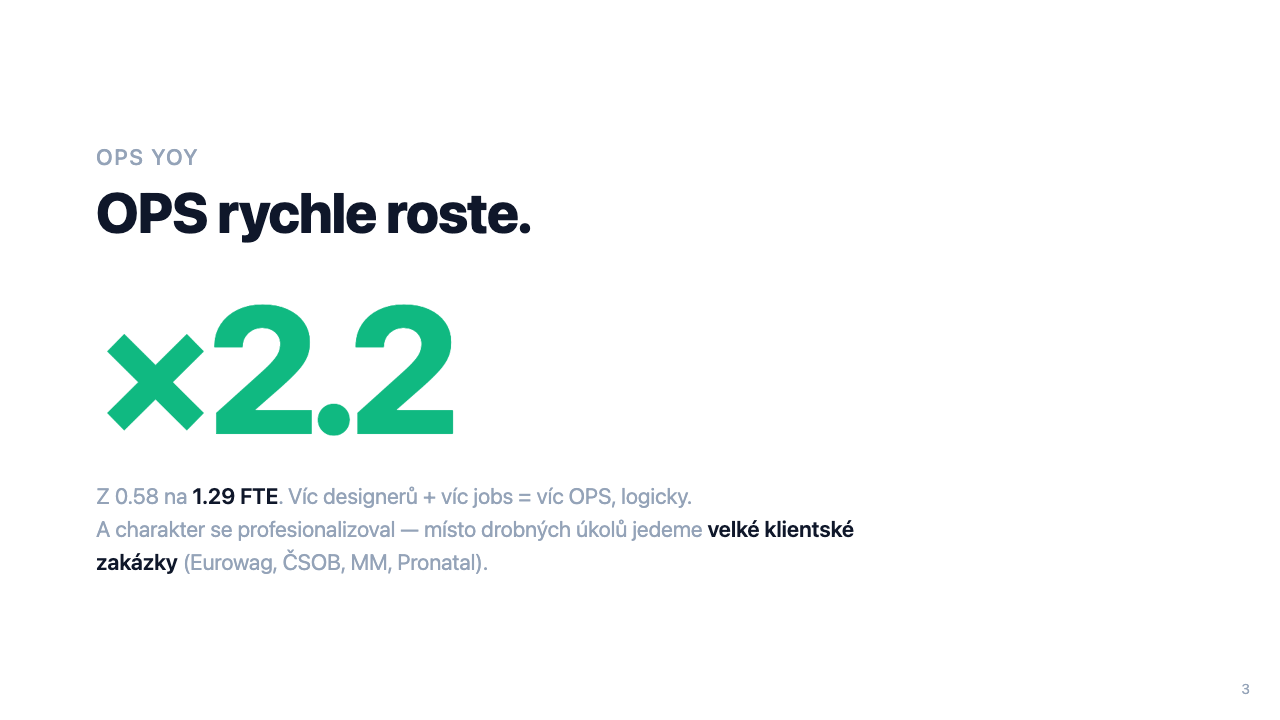
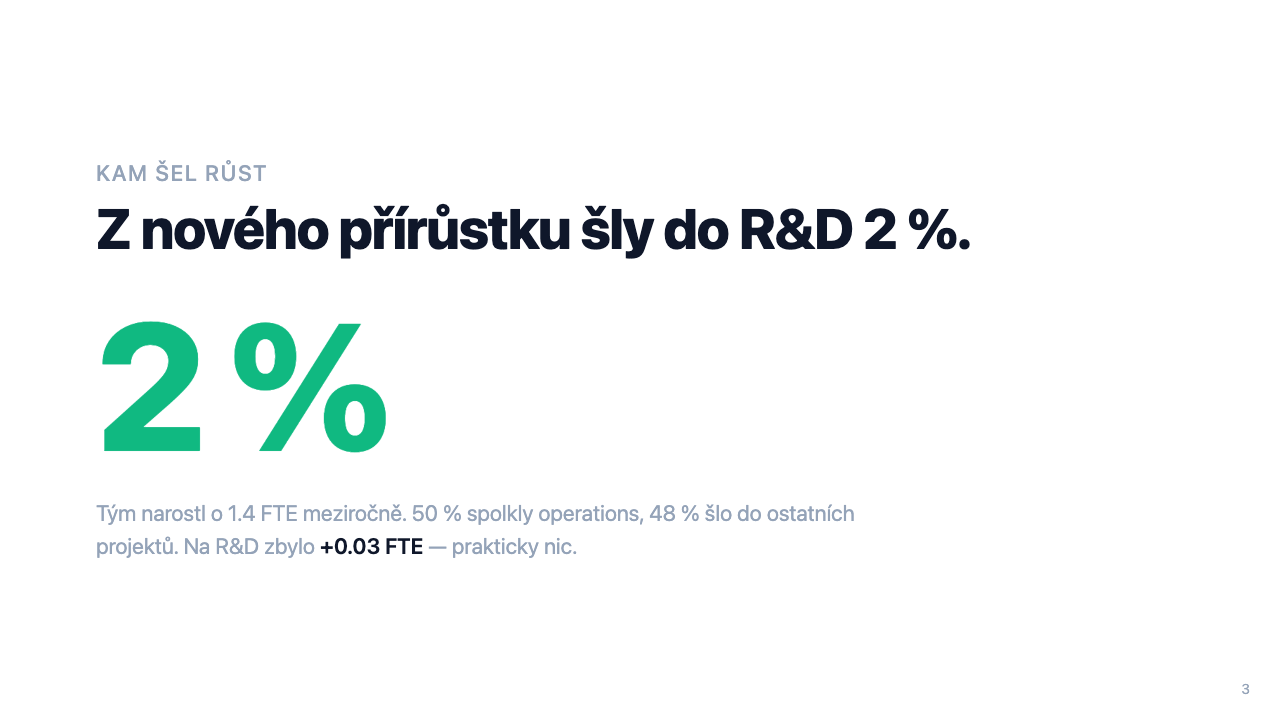
docs: refine Q1 2026 review slides 3-5 as a connected arc
- Slide 3: reframe as "where did the growth go" — only 2% to R&D
- Slide 4: reframe as the resulting state, bridging from slide 3
- Slide 5: lead with the consequence ("can't innovate") and use the
  10-year tempo as supporting evidence

Changed region(s): [[0.0625, 0.1833, 0.75, 0.3667], [0.0625, 0.6722, 0.6875, 0.7944], [0.0625, 0.3972, 0.375, 0.6417]]

diff --git a/public/q1-2026-review-2f/index.html b/public/q1-2026-review-2f/index.html
@@ -822,11 +822,11 @@ ul.questions li strong {
 .note strong { color: var(--ink) !important; font-weight: 600; background: transparent; }
 " lang="C" data-marpit-pagination="3" style="--paginate:true;--theme:default;--style:@import url('https://fonts.googleapis.com/css2?family=IBM+Plex+Mono:ital,wght@0,400;0,500;0,600;0,700;1,500&amp;family=IBM+Plex+Sans:wght@300;400;500;600;700&amp;display=swap')
 ;" data-marpit-pagination-total="7" data-size="16:9">
-<div class="eyebrow">02 / OPS YoY</div>
-<h1 id="ops-rychle-roste">OPS <strong>rychle roste</strong>.</h1>
-<p><span class="big hl">×2.2</span></p>
+<div class="eyebrow">02 / Kam šel růst</div>
+<h1 id="z-nov%C3%A9ho-p%C5%99%C3%ADr%C5%AFstku-%C5%A1ly-do-rd-2">Z nového přírůstku šly do R&amp;D <strong>2 %</strong>.</h1>
+<p><span class="big hl">2 %</span></p>
 <div class="note">
-Z 0.58 na <strong>1.29 FTE</strong>. Víc designerů + víc jobs = víc OPS, logicky. A charakter se profesionalizoval — místo drobných úkolů jedeme <strong>velké klientské zakázky</strong> (Eurowag, ČSOB, MM, Pronatal).
+Tým narostl o 1.4 FTE meziročně. 50 % spolkly operations, 48 % šlo do ostatních projektů. Na R&D zbylo <strong>+0.03 FTE</strong> — prakticky nic.
 </div>
 </section>
 </foreignObject></svg><svg data-marpit-svg="" viewBox="0 0 1280 720"><foreignObject width="1280" height="720"><section id="4" data-paginate="true" data-theme="default" data-style="@import url('https://fonts.googleapis.com/css2?family=IBM+Plex+Mono:ital,wght@0,400;0,500;0,600;0,700;1,500&amp;family=IBM+Plex+Sans:wght@300;400;500;600;700&amp;display=swap');
@@ -1097,12 +1097,11 @@ ul.questions li strong {
 .note strong { color: var(--ink) !important; font-weight: 600; background: transparent; }
 " lang="C" data-marpit-pagination="4" style="--paginate:true;--theme:default;--style:@import url('https://fonts.googleapis.com/css2?family=IBM+Plex+Mono:ital,wght@0,400;0,500;0,600;0,700;1,500&amp;family=IBM+Plex+Sans:wght@300;400;500;600;700&amp;display=swap')
 ;" data-marpit-pagination-total="7" data-size="16:9">
-<div class="eyebrow">03 / R&D dnes</div>
-<h1 id="na-rd-n%C3%A1m-zb%C3%BDv%C3%A1-m%C3%A1lo">Na R&amp;D nám zbývá <strong>málo</strong>.</h1>
+<div class="eyebrow">03 / Stav R&D</div>
+<h1 id="v%C3%BDsledek-rd-dr%C5%BE%C3%AD-jen-16--kapacity">Výsledek: R&amp;D drží jen <strong>16 %</strong> kapacity.</h1>
 <p><span class="big hl">16 %</span></p>
 <div class="note">
-Z historického 90 : 10 jsme se posunuli na <strong>72 : 28</strong>. Posun správným směrem.<br />
-Ale cíl je <strong>minimálně 25 %, ideálně 35 %</strong>. Tam jsme stále daleko.
+Z historického 90 : 10 jsme se posunuli na <strong>72 : 28</strong> — pokrok. Ale cíl je <strong>minimum 25 %, ideál 35 %</strong>. Tam jsme stále daleko.
 </div>
 </section>
 </foreignObject></svg><svg data-marpit-svg="" viewBox="0 0 1280 720"><foreignObject width="1280" height="720"><section id="5" data-paginate="true" data-theme="default" data-style="@import url('https://fonts.googleapis.com/css2?family=IBM+Plex+Mono:ital,wght@0,400;0,500;0,600;0,700;1,500&amp;family=IBM+Plex+Sans:wght@300;400;500;600;700&amp;display=swap');
@@ -1373,11 +1372,11 @@ ul.questions li strong {
 .note strong { color: var(--ink) !important; font-weight: 600; background: transparent; }
 " lang="C" data-marpit-pagination="5" style="--paginate:true;--theme:default;--style:@import url('https://fonts.googleapis.com/css2?family=IBM+Plex+Mono:ital,wght@0,400;0,500;0,600;0,700;1,500&amp;family=IBM+Plex+Sans:wght@300;400;500;600;700&amp;display=swap')
 ;" data-marpit-pagination-total="7" data-size="16:9">
-<div class="eyebrow">04 / Tempo k cíli</div>
-<h1 id="tempo-je-p%C5%99%C3%ADli%C5%A1-pomal%C3%A9">Tempo je <strong>příliš pomalé</strong>.</h1>
+<div class="eyebrow">04 / Důsledek</div>
+<h1 id="bez-investice-do-rd-nezvl%C3%A1dneme-inovovat">Bez investice do R&amp;D <strong>nezvládneme inovovat</strong>.</h1>
 <p><span class="big hl">~10 let</span></p>
 <div class="note">
-Při současných deltách R&D dorůstá, ale jen pomalu — z 16 % se asymptoticky blíží stropu kolem <strong>26 %</strong>. To znamená: cíl <strong>25 % až za ~10 let</strong> (39 kvartálů), cíl <strong>35 % bez aktivního zásahu nedosažitelný</strong>. Tempo nás vede k minimu, ale neudrží nás u ideálu.
+Současné tempo nás dovede k 25 % cíli za zhruba <strong>10 let</strong>, k 35 % nikdy. Bez prostoru pro R&D — a tedy pro nástroje a automatizace — bude každý nový OPS klient zhoršovat poměr. <strong>Operace porostou, kapacita pro inovace ne.</strong>
 </div>
 </section>
 </foreignObject></svg><svg data-marpit-svg="" viewBox="0 0 1280 720"><foreignObject width="1280" height="720"><section id="6" data-paginate="true" data-theme="default" data-style="@import url('https://fonts.googleapis.com/css2?family=IBM+Plex+Mono:ital,wght@0,400;0,500;0,600;0,700;1,500&amp;family=IBM+Plex+Sans:wght@300;400;500;600;700&amp;display=swap');

diff --git a/public/q1-2026-review/index.html b/public/q1-2026-review/index.html
@@ -1025,12 +1025,11 @@ svg { display: block; margin: 16px 0; }
   font-weight: 300;
 }
 ;" data-marpit-pagination-total="7" data-size="16:9">
-<div class="label">OPS YoY</div>
-<h1 id="ops-rychle-roste">OPS <strong>rychle roste</strong>.</h1>
-<div class="big ops">×2.2</div>
+<div class="label">Kam šel růst</div>
+<h1 id="z-nov%C3%A9ho-p%C5%99%C3%ADr%C5%AFstku-%C5%A1ly-do-rd-2">Z nového přírůstku šly do R&amp;D <strong>2 %</strong>.</h1>
+<div class="big ops">2 %</div>
 <div class="note">
-Z 0.58 na <strong>1.29 FTE</strong>. Víc designerů + víc jobs = víc OPS, logicky.<br />
-A charakter se profesionalizoval — místo drobných úkolů jedeme <strong>velké klientské zakázky</strong> (Eurowag, ČSOB, MM, Pronatal).
+Tým narostl o 1.4 FTE meziročně. 50 % spolkly operations, 48 % šlo do ostatních projektů. Na R&D zbylo <strong>+0.03 FTE</strong> — prakticky nic.
 </div>
 </section>
 </foreignObject></svg><svg data-marpit-svg="" viewBox="0 0 1280 720"><foreignObject width="1280" height="720"><section id="4" data-paginate="true" data-theme="default" data-style=":root {
@@ -1368,12 +1367,12 @@ svg { display: block; margin: 16px 0; }
   font-weight: 300;
 }
 ;" data-marpit-pagination-total="7" data-size="16:9">
-<div class="label">R&D dnes</div>
-<h1 id="na-rd-n%C3%A1m-zb%C3%BDv%C3%A1-m%C3%A1lo">Na R&amp;D nám zbývá <strong>málo</strong>.</h1>
+<div class="label">Stav R&D</div>
+<h1 id="v%C3%BDsledek-rd-dr%C5%BE%C3%AD-jen-16--kapacity">Výsledek: R&amp;D drží jen <strong>16 %</strong> kapacity.</h1>
 <div class="big rnd">16 %</div>
 <div class="note">
-Z historického 90 : 10 jsme se posunuli na 72 : 28. <strong>Posun správným směrem.</strong><br />
-Ale cíl je <strong>minimálně 25 %, ideálně 35 %</strong>. Tam jsme stále daleko.
+Z historického 90 : 10 jsme se posunuli na 72 : 28 — pokrok.<br />
+Ale cíl je <strong>minimum 25 %, ideál 35 %</strong>. Tam jsme stále daleko.
 </div>
 </section>
 </foreignObject></svg><svg data-marpit-svg="" viewBox="0 0 1280 720"><foreignObject width="1280" height="720"><section id="5" data-paginate="true" data-theme="default" data-style=":root {
@@ -1711,11 +1710,11 @@ svg { display: block; margin: 16px 0; }
   font-weight: 300;
 }
 ;" data-marpit-pagination-total="7" data-size="16:9">
-<div class="label">Tempo k cíli</div>
-<h1 id="tempo-je-p%C5%99%C3%ADli%C5%A1-pomal%C3%A9">Tempo je <strong>příliš pomalé</strong>.</h1>
+<div class="label">Důsledek</div>
+<h1 id="bez-investice-do-rd-nezvl%C3%A1dneme-inovovat">Bez investice do R&amp;D <strong>nezvládneme inovovat</strong>.</h1>
 <div class="big rnd">~10 let</div>
 <div class="note">
-Při současných deltách R&D dorůstá, ale jen pomalu — z 16 % se asymptoticky blíží stropu kolem <strong>26 %</strong>. To znamená: cíl <strong>25 % až za ~10 let</strong> (39 kvartálů), cíl <strong>35 % bez aktivního zásahu nedosažitelný</strong>. Tempo nás vede k minimu, ale neudrží nás u ideálu.
+Současné tempo nás dovede k 25 % cíli za zhruba <strong>10 let</strong>, k 35 % nikdy. Bez prostoru pro R&D — a tedy pro nástroje a automatizace — bude každý nový OPS klient zhoršovat poměr. <strong>Operace porostou, kapacita pro inovace ne.</strong>
 </div>
 </section>
 </foreignObject></svg><svg data-marpit-svg="" viewBox="0 0 1280 720"><foreignObject width="1280" height="720"><section id="6" data-paginate="true" data-theme="default" data-style=":root {

diff --git a/docs/presentations/q1-2026-review-2f.marp.md b/docs/presentations/q1-2026-review-2f.marp.md
@@ -294,39 +294,38 @@ Z 1.7 na <strong>3.1 FTE</strong> meziročně. Vyrostli jsme díky <strong>Tajov
 
 ---
 
-<div class="eyebrow">02 / OPS YoY</div>
+<div class="eyebrow">02 / Kam šel růst</div>
 
-# OPS **rychle roste**.
+# Z nového přírůstku šly do R&D **2 %**.
 
-<span class="big hl">×2.2</span>
+<span class="big hl">2 %</span>
 
 <div class="note">
-Z 0.58 na <strong>1.29 FTE</strong>. Víc designerů + víc jobs = víc OPS, logicky. A charakter se profesionalizoval — místo drobných úkolů jedeme <strong>velké klientské zakázky</strong> (Eurowag, ČSOB, MM, Pronatal).
+Tým narostl o 1.4 FTE meziročně. 50 % spolkly operations, 48 % šlo do ostatních projektů. Na R&D zbylo <strong>+0.03 FTE</strong> — prakticky nic.
 </div>
 
 ---
 
-<div class="eyebrow">03 / R&D dnes</div>
+<div class="eyebrow">03 / Stav R&D</div>
 
-# Na R&D nám zbývá **málo**.
+# Výsledek: R&D drží jen **16 %** kapacity.
 
 <span class="big hl">16 %</span>
 
 <div class="note">
-Z historického 90 : 10 jsme se posunuli na <strong>72 : 28</strong>. Posun správným směrem.<br>
-Ale cíl je <strong>minimálně 25 %, ideálně 35 %</strong>. Tam jsme stále daleko.
+Z historického 90 : 10 jsme se posunuli na <strong>72 : 28</strong> — pokrok. Ale cíl je <strong>minimum 25 %, ideál 35 %</strong>. Tam jsme stále daleko.
 </div>
 
 ---
 
-<div class="eyebrow">04 / Tempo k cíli</div>
+<div class="eyebrow">04 / Důsledek</div>
 
-# Tempo je **příliš pomalé**.
+# Bez investice do R&D **nezvládneme inovovat**.
 
 <span class="big hl">~10 let</span>
 
 <div class="note">
-Při současných deltách R&D dorůstá, ale jen pomalu — z 16 % se asymptoticky blíží stropu kolem <strong>26 %</strong>. To znamená: cíl <strong>25 % až za ~10 let</strong> (39 kvartálů), cíl <strong>35 % bez aktivního zásahu nedosažitelný</strong>. Tempo nás vede k minimu, ale neudrží nás u ideálu.
+Současné tempo nás dovede k 25 % cíli za zhruba <strong>10 let</strong>, k 35 % nikdy. Bez prostoru pro R&D — a tedy pro nástroje a automatizace — bude každý nový OPS klient zhoršovat poměr. <strong>Operace porostou, kapacita pro inovace ne.</strong>
 </div>
 
 ---

diff --git a/docs/presentations/q1-2026-review.marp.md b/docs/presentations/q1-2026-review.marp.md
@@ -196,40 +196,39 @@ Vyrostli jsme díky <strong>Tajovi</strong> a <strong>Jardovi</strong>.
 
 ---
 
-<div class="label">OPS YoY</div>
+<div class="label">Kam šel růst</div>
 
-# OPS **rychle roste**.
+# Z nového přírůstku šly do R&D **2 %**.
 
-<div class="big ops">×2.2</div>
+<div class="big ops">2 %</div>
 
 <div class="note">
-Z 0.58 na <strong>1.29 FTE</strong>. Víc designerů + víc jobs = víc OPS, logicky.<br>
-A charakter se profesionalizoval — místo drobných úkolů jedeme <strong>velké klientské zakázky</strong> (Eurowag, ČSOB, MM, Pronatal).
+Tým narostl o 1.4 FTE meziročně. 50 % spolkly operations, 48 % šlo do ostatních projektů. Na R&D zbylo <strong>+0.03 FTE</strong> — prakticky nic.
 </div>
 
 ---
 
-<div class="label">R&D dnes</div>
+<div class="label">Stav R&D</div>
 
-# Na R&D nám zbývá **málo**.
+# Výsledek: R&D drží jen **16 %** kapacity.
 
 <div class="big rnd">16 %</div>
 
 <div class="note">
-Z historického 90 : 10 jsme se posunuli na 72 : 28. <strong>Posun správným směrem.</strong><br>
-Ale cíl je <strong>minimálně 25 %, ideálně 35 %</strong>. Tam jsme stále daleko.
+Z historického 90 : 10 jsme se posunuli na 72 : 28 — pokrok.<br>
+Ale cíl je <strong>minimum 25 %, ideál 35 %</strong>. Tam jsme stále daleko.
 </div>
 
 ---
 
-<div class="label">Tempo k cíli</div>
+<div class="label">Důsledek</div>
 
-# Tempo je **příliš pomalé**.
+# Bez investice do R&D **nezvládneme inovovat**.
 
 <div class="big rnd">~10 let</div>
 
 <div class="note">
-Při současných deltách R&D dorůstá, ale jen pomalu — z 16 % se asymptoticky blíží stropu kolem <strong>26 %</strong>. To znamená: cíl <strong>25 % až za ~10 let</strong> (39 kvartálů), cíl <strong>35 % bez aktivního zásahu nedosažitelný</strong>. Tempo nás vede k minimu, ale neudrží nás u ideálu.
+Současné tempo nás dovede k 25 % cíli za zhruba <strong>10 let</strong>, k 35 % nikdy. Bez prostoru pro R&D — a tedy pro nástroje a automatizace — bude každý nový OPS klient zhoršovat poměr. <strong>Operace porostou, kapacita pro inovace ne.</strong>
 </div>
 
 ---
